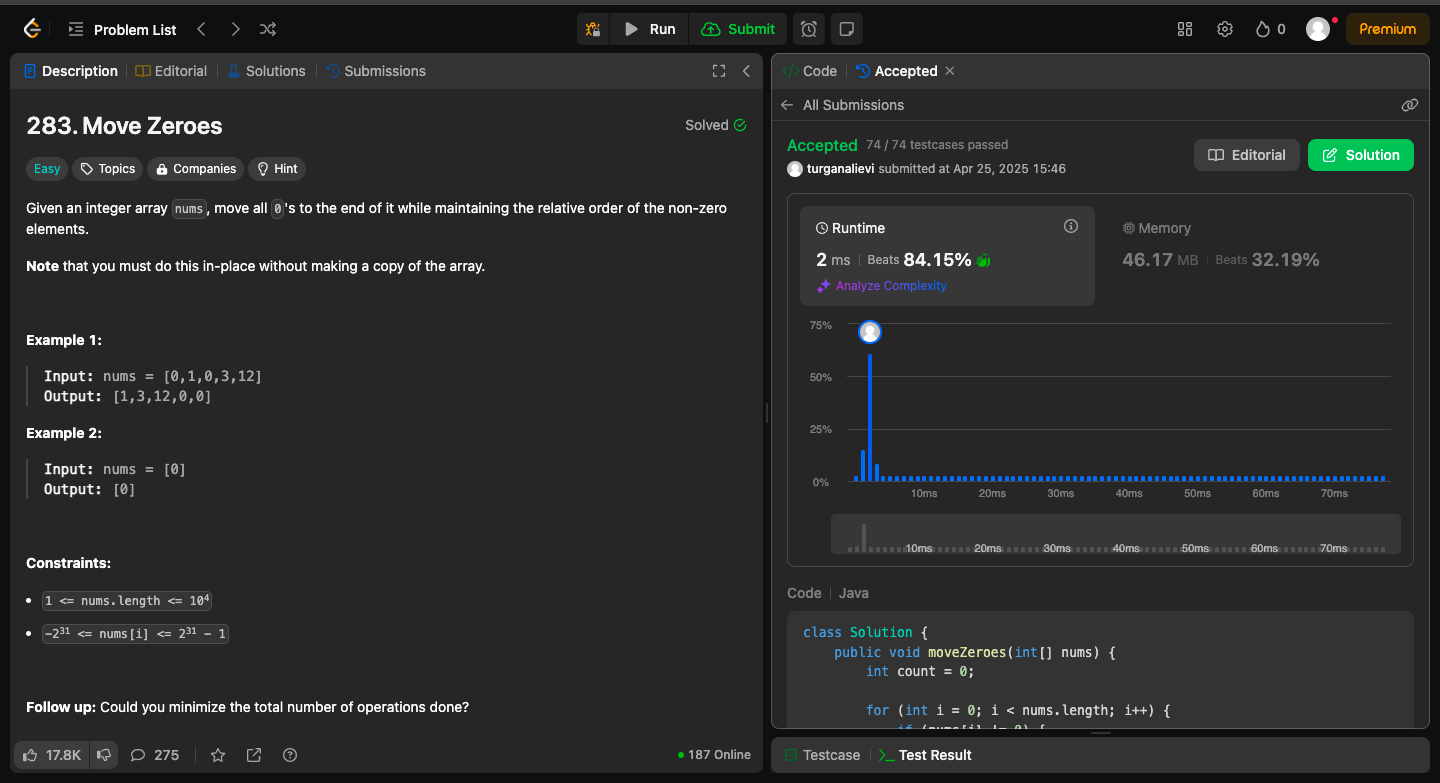
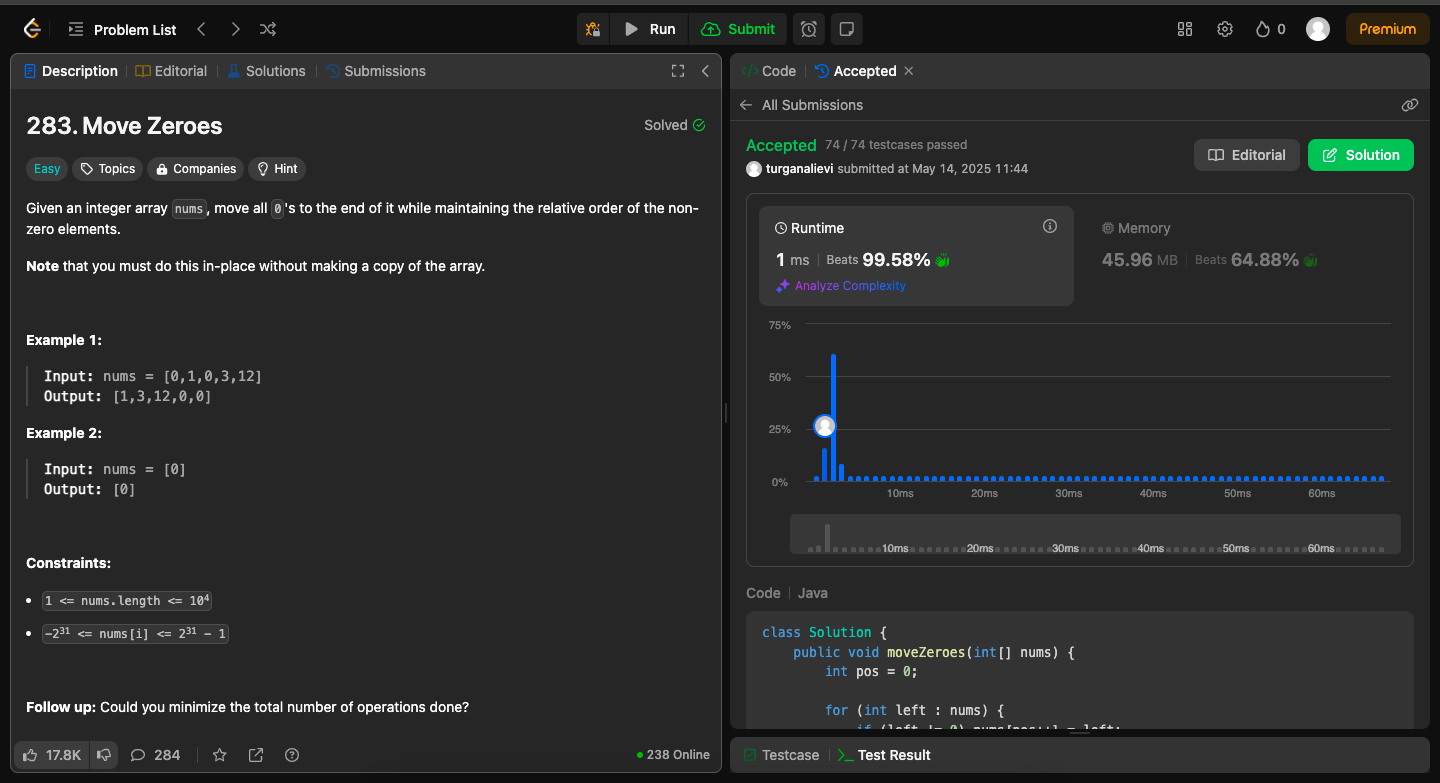
updated solution for 283

diff --git a/data-structures-and-algorithms/src/W12/moveZeroes.java b/data-structures-and-algorithms/src/W12/moveZeroes.java
@@ -1,0 +1,14 @@
+package W12;
+
+class Solution {
+    public void moveZeroes(int[] nums) {
+        int pos = 0;
+
+        for (int left : nums) {
+            if (left != 0) nums[pos++] = left;
+        }
+        while (pos < nums.length) {
+            nums[pos++] = 0;
+        }
+    }
+}
